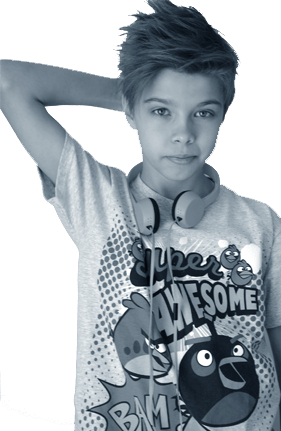
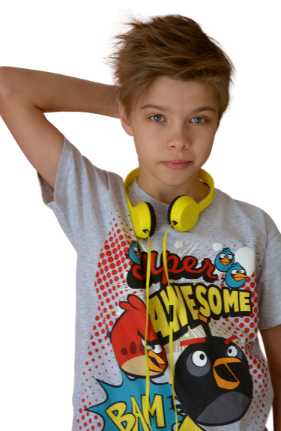
Change the pictures for be like them section
* Change greyscale pictures for color

diff --git a/sekcje/badz_jak_oni.html b/sekcje/badz_jak_oni.html
@@ -71,7 +71,7 @@
 <li class="carousel-content">
     <div class="profile">
         <div class="profile_pic">
-            <img src="assets/Kasia_Stempniak.png" alt="Kasia Stempniak" style="" class="gray"/>
+            <img src="assets/stempniakkasia.png" alt="Kasia Stempniak" style=""/>
         </div>
         <div class="profile_info">
             <div class="name">Kasia Stempniak</div>
